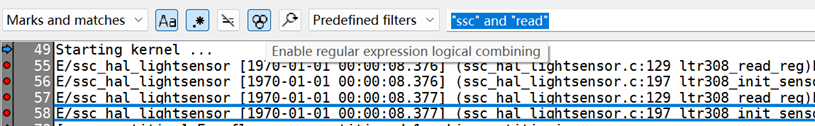
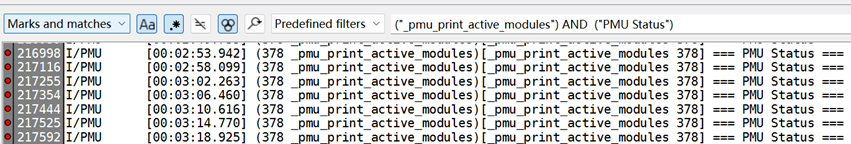
更新klogg使用

diff --git a/tools_and_skills/klogg使用.md b/tools_and_skills/klogg使用.md
@@ -1,16 +1,30 @@
 # 用法
-•组合搜索：例如，查找包含 "ERROR" 但不包含 "Timeout" 的日志，搜索："ERROR" and not ("Timeout")。  
-支持括号分组：("error" or "warning") and "server1" --只能用小写and/or，大写AND/OR报错KLOGG WARNING: failed to read some lines before this one，看来把大写AND/OR当做被搜索字符串了。并且，不支持not，与宣传的有差别。   
-•多条件匹配：查找数据库连接错误或认证失败的日志："database.*error" or "authentication.*failed"  
-
-("924" | "438")".\*event"  ---- 搜索924或438后跟event的行，.\* will match any sequence of characters on a single line  
-写成("924" | "438")".\*event"正确，写成("924" or "438")".\*event"却报错，bug太多。  
----- 看来&|支持更好？  
+•组合搜索：例如，查找包含 "ERROR" 但不包含 "Timeout" 的日志，搜索：("ERROR") and not ("Timeout")。  
+支持括号分组：("error" or "warning") and ("server1")   
+•多条件匹配：查找数据库连接错误或认证失败的日志：("database.*error") or ("authentication.*failed")  
 
 
-and、or、not运算符，将![klogg_regular_expression.png](../Resources/klogg_regular_expression.png)选上，Enable regular expression logical combining，并且被搜索的字符串必须加上双引号，例如搜索同时包含ssc和read的行，输入"ssc" and "read"。  
+and/or/not/&/\|逻辑运算符，将![klogg_regular_expression.png](../Resources/klogg_regular_expression.png)选上，Enable regular expression logical combining，并且被搜索的字符串必须加上双引号和小括号，例如：("_pmu_print_active_modules") AND ("PMU Status")。  
 ![klogg_regular_expression2.png](../Resources/klogg_regular_expression2.png)  
- 如果不加双引号会报错Error in expression: Patterns must be enclosed in quotes。很好理解，如果不加双引号，怎么知道是要搜索and这个字符串本身还是将and理解为运算符？  
+例如：("_pmu_print_active_modules") AND NOT ("PMU Status")
+![klogg_regular_expression3.png](../Resources/klogg_regular_expression3.png)  
+如果不加双引号会报错Error in expression: Patterns must be enclosed in quotes。
+很好理解，如果不加双引号，怎么知道是要搜索and这个字符串本身还是将and理解为运算符？  
+
+# 总结
+("_pmu_print_active_modules") AND NOT ("BUSY")  
+结论1：**使用AND/OR/NOT/&/\|等逻辑运算符时，搜索字符加上双引号和小括号。**  
+
+("924" \|"438") and not ("event")、("924" \|"438") or not ("event")  
+结论2：**NOT不能单独使用，NOT前面必须有AND或OR。**  
+
+("924" or "438") and ("event") 、("924" or "438") and not ("event")  
+("924" or "438") or ("event")  、("924" or "438") or not ("event")  
+("924" or "438") & ("event")  
+("924" or "438") \| ("event")  
+--结论：如果小括号后面有and/or/&/|，那么小括号里面的and/or/&/\|能正常匹配。  
+       如果小括号后面没有and/or/&/\|，那么小括号里面只能用&/\|。  
+推荐：**小括号与后面其他被搜索字符之间使用逻辑运算符连接起来**，这样，不管小括号里面使用and/or还是&\|都可以正常工作。--回到了前面的结论：**逻辑运算符的前面的字符、后面的字符都加上双引号和小括号**。  
 
 
 